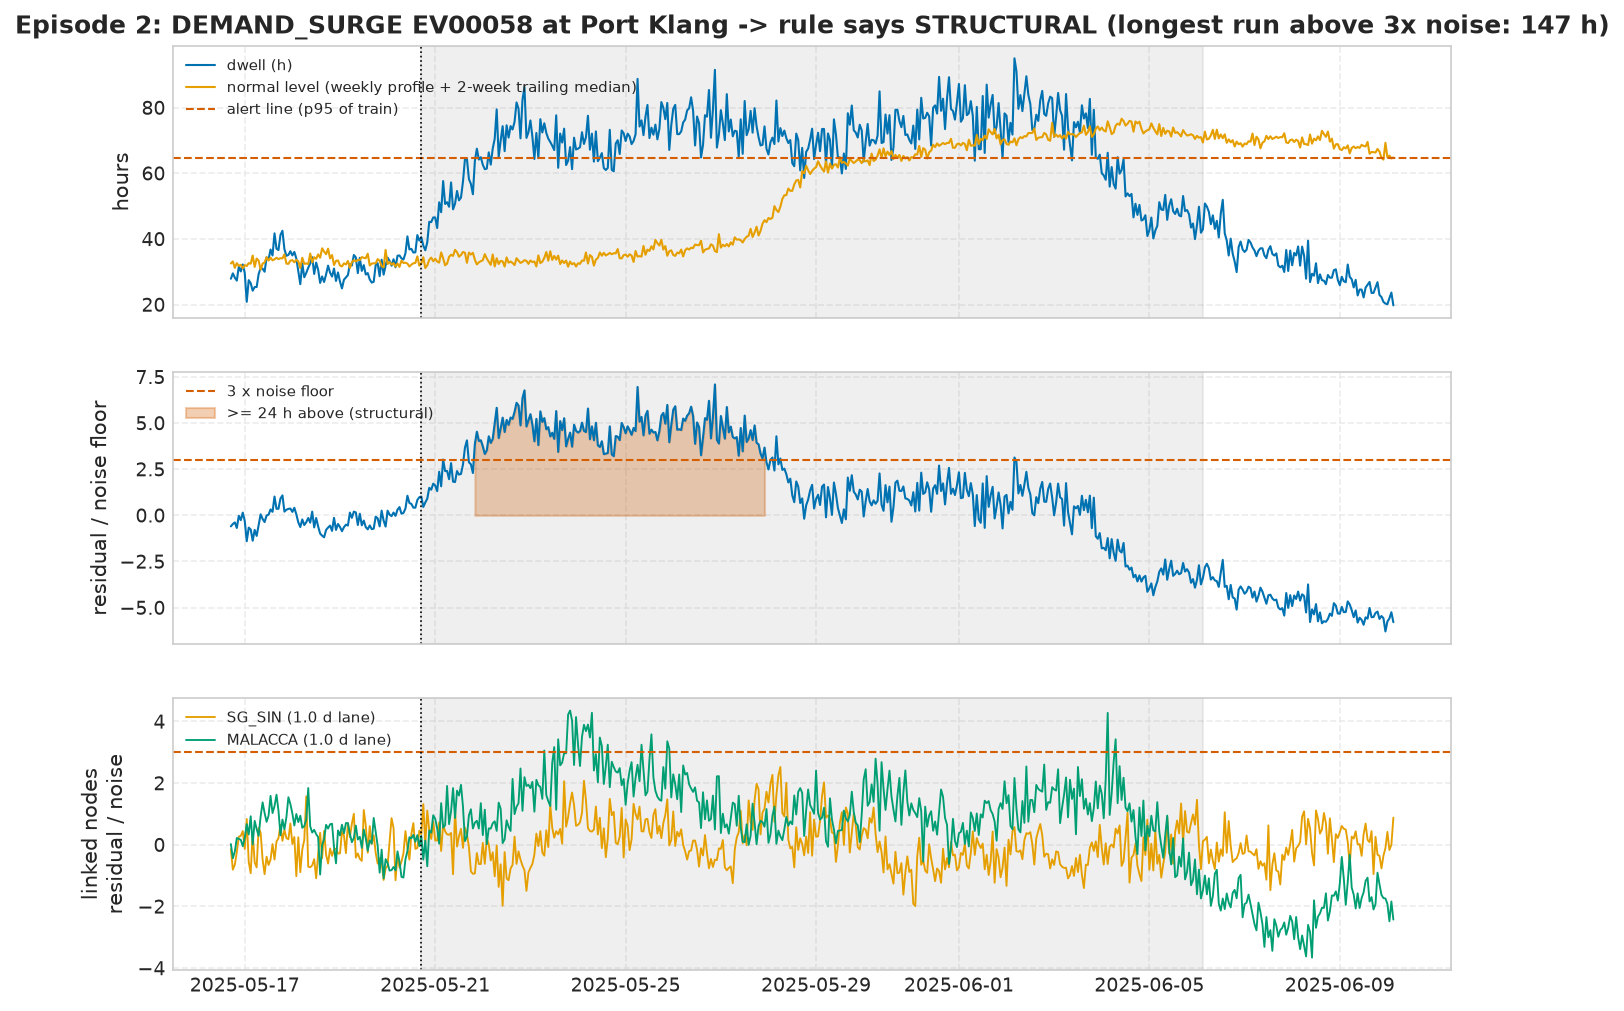
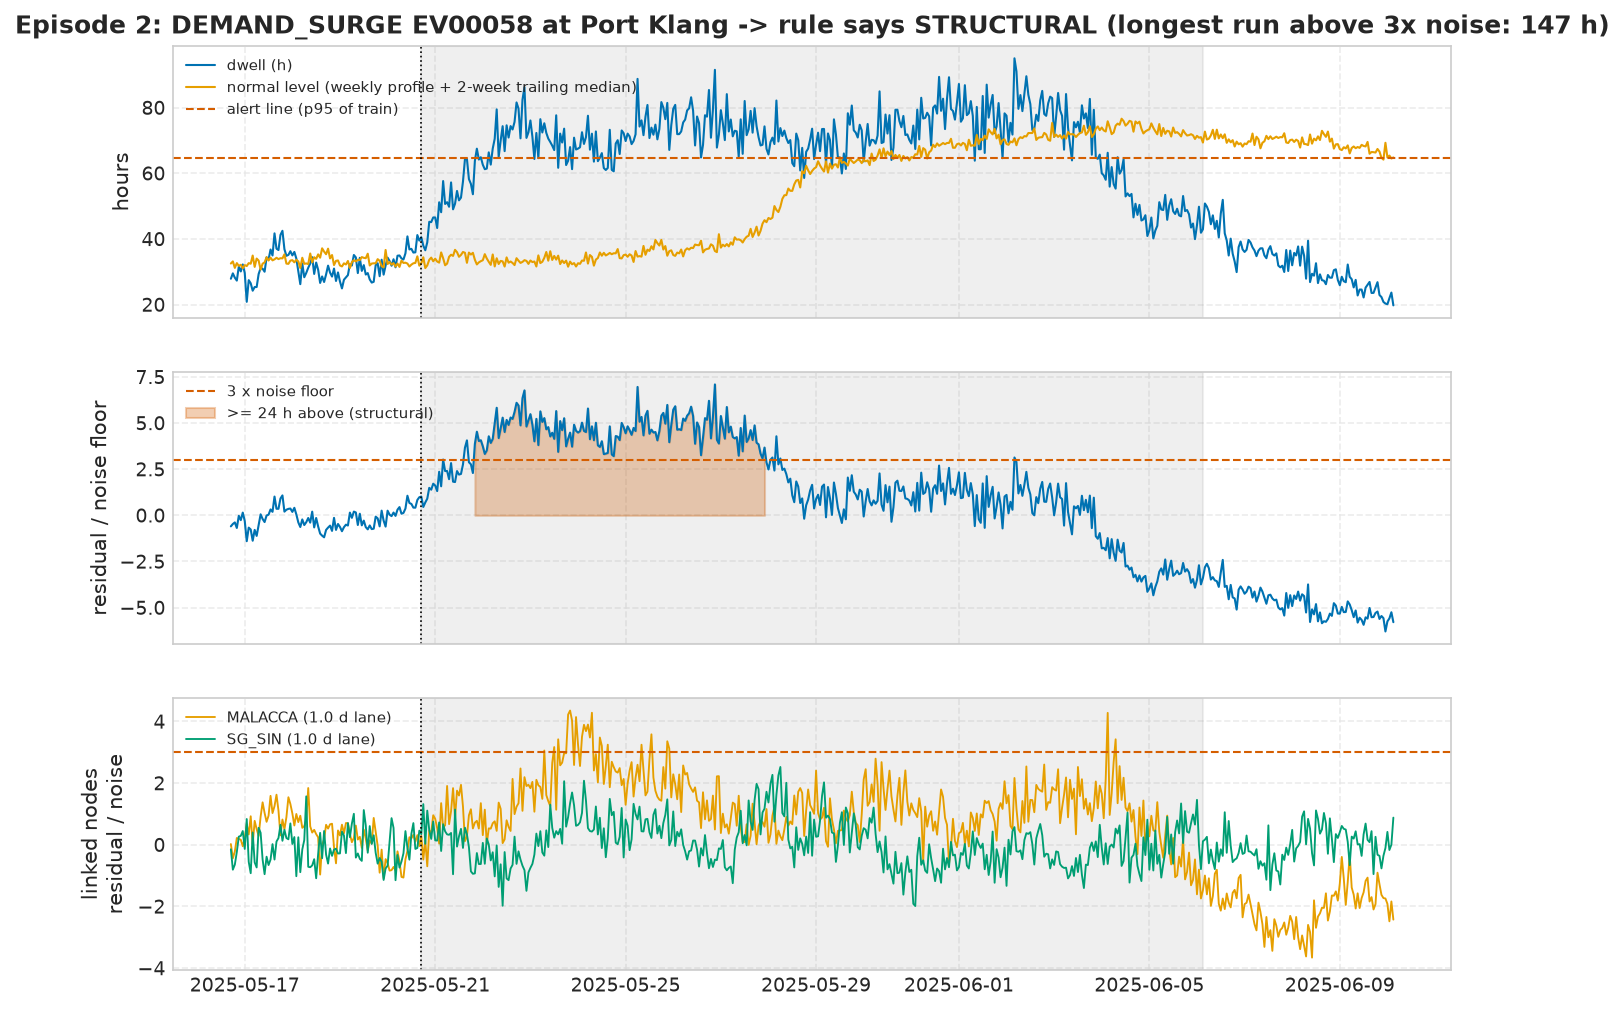
eda(stage02): pick the linked nodes of an episode in a fixed order
When two lanes had the same transit time, the 4 neighbours shown for an
ambiguous episode came from a set, whose order changes between Python
runs, so a clean-clone run reported 3 instead of 4 linked nodes above the
noise line for episode 1. Ties are now broken by node id; two runs with
different hash seeds give identical EDA tables.

Cross-role: done by Role 4 (Bennish) at the team lead's request; owner Isha (Role 2) to review

Changed region(s): [[0.1232, 0.7052, 0.8621, 0.9505], [0.1232, 0.7052, 0.2463, 0.7359]]

diff --git a/Stage02_DL/02_eda_engineer.py b/Stage02_DL/02_eda_engineer.py
@@ -420,8 +420,9 @@ def ambiguous_graphs(S: dict, d: pd.DataFrame, r: pd.DataFrame, sigma: dict, che
         n = p["node_id"]
         win = (times >= p["start"]) & (times <= p["end"])
         res = classify_excursion(r[n][win], S["wide"][DWELL][n][win], sigma[n], S["thr"][n], K_NOISE, STRUCTURAL_H)
-        # How strongly the linked nodes moved in the same window (up to 4 nearest lanes).
-        nbrs = sorted(S["neighbours"][n], key=lambda m: S["transit_h"][(n, m)])[:4]
+        # How strongly the linked nodes moved in the same window (up to 4 nearest lanes; ties broken by node id,
+        # because a set's order changes from run to run and would change which neighbours are shown).
+        nbrs = sorted(S["neighbours"][n], key=lambda m: (S["transit_h"][(n, m)], m))[:4]
         nbr_peak = {m: float(np.nanmax(r[m][win] / sigma[m])) for m in nbrs}
         rows.append({"episode": i, **{k: p[k] for k in ("label", "node_id", "truth")},
                      "window": f"{p['start']:%Y-%m-%d %H:%M} .. {p['end']:%Y-%m-%d %H:%M}",
